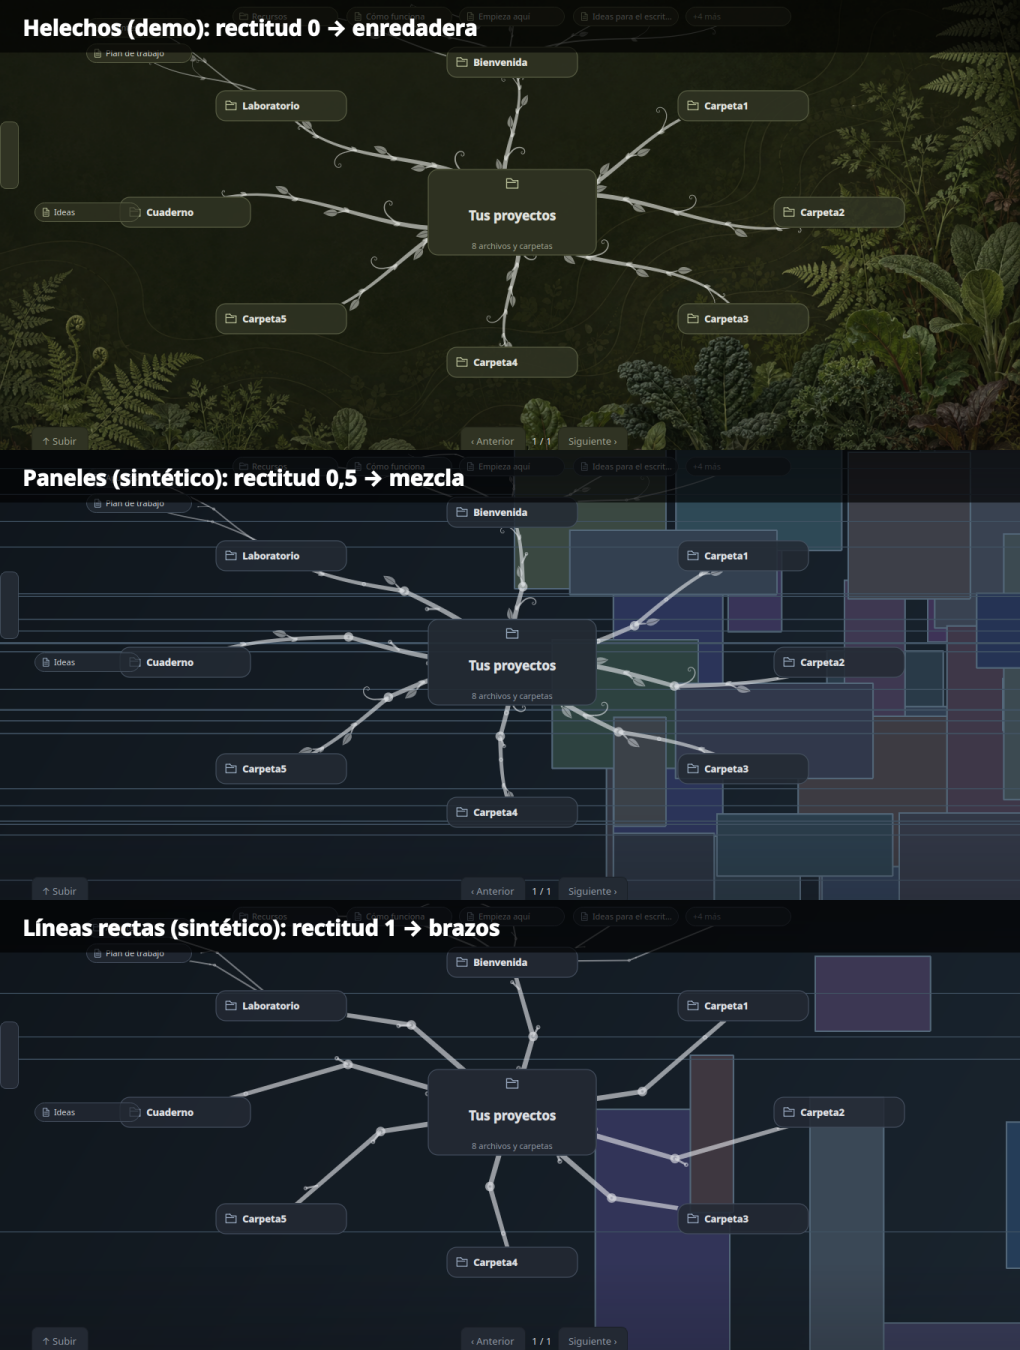
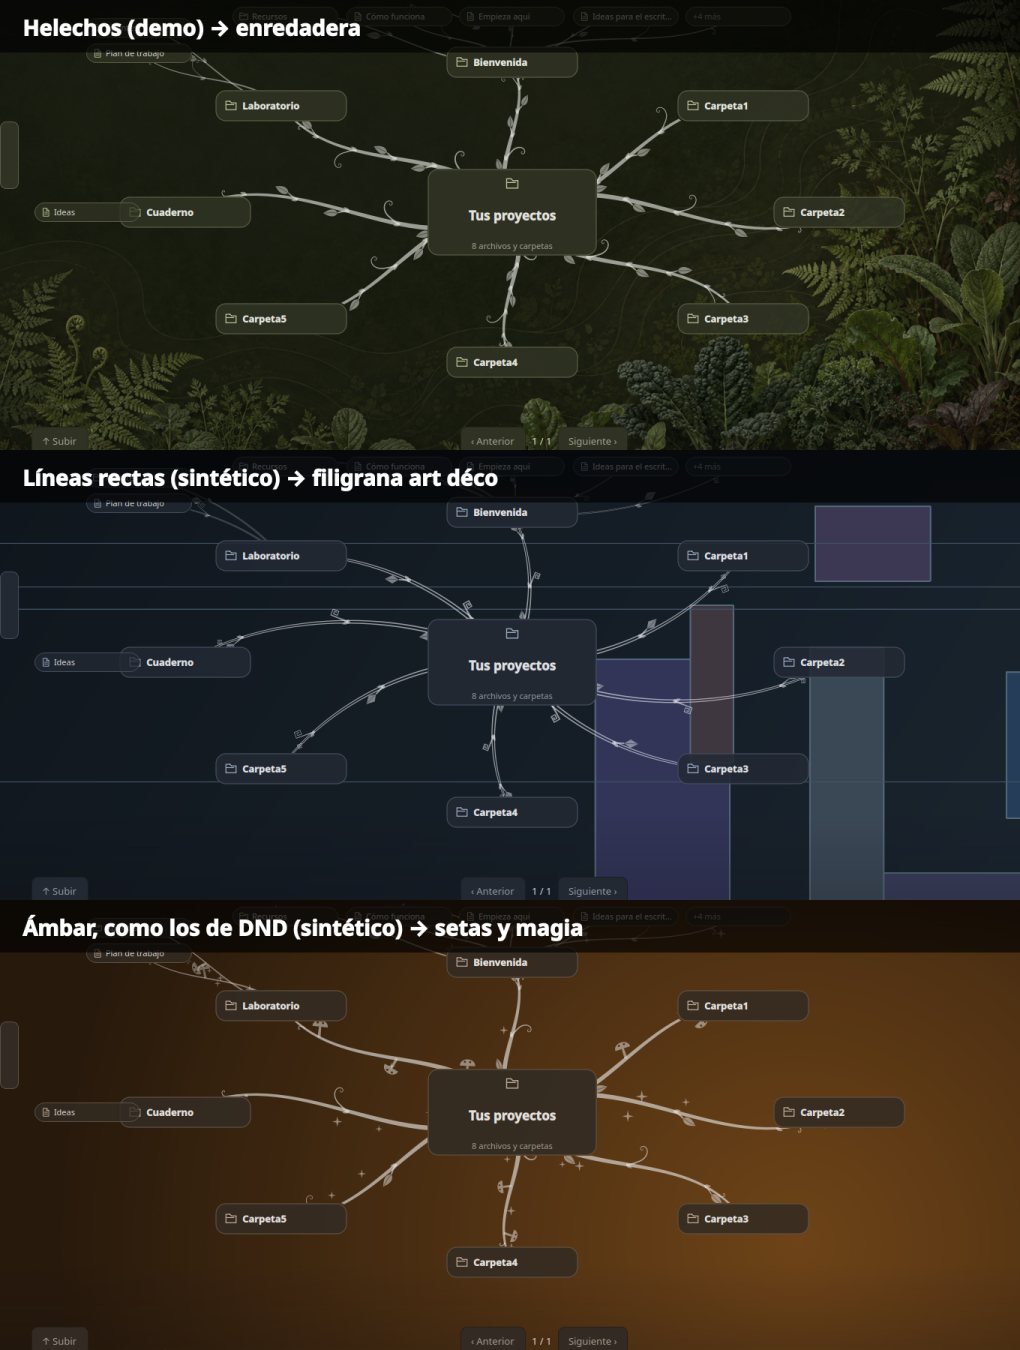
Ramas: técnico pasa a filigrana art déco; magia por tono ámbar (fondos de DND) con setas y destellos

diff --git a/desktop/prosperus/branches.py b/desktop/prosperus/branches.py
@@ -63,13 +63,6 @@ def _heading(points, i):
     return math.atan2(b.y() - a.y(), b.x() - a.x())
 
 
-def ring(painter, centre, radius, color, hole):
-    """Articulación o tornillo: disco con agujero (o ranura) en el color de fondo."""
-    path = QPainterPath(); path.addEllipse(centre, radius, radius)
-    inner = QPainterPath(); inner.addEllipse(centre, radius * hole, radius * hole)
-    painter.setBrush(color); painter.drawPath(path.subtracted(inner))
-
-
 def sparkle(painter, centre, size, color):
     """Destello de cuatro puntas."""
     path = QPainterPath(centre + QPointF(0, -size))
@@ -93,39 +86,57 @@ def mushroom(painter, base, angle, size, color, spots):
     painter.drawPath(cap)
 
 
-def _arm_points(start, end, side, steps):
-    """Brazo articulado: dos tramos rectos con el codo apartado hacia un lado."""
-    elbow = (start + end) / 2 + side
-    half = steps // 2
-    return ([start + (elbow - start) * (i / half) for i in range(half)] +
-            [elbow + (end - elbow) * (i / (steps - half)) for i in range(steps - half + 1)]), elbow
+def square_spiral_points(base, angle, size, turn):
+    """Greca: espiral cuadrada que gira 90° en cada tramo, cada vez más corto."""
+    points, point, heading = [base], QPointF(base), angle
+    for factor in (1, .75, .75, .5, .5, .3, .3):
+        point = point + QPointF(math.cos(heading), math.sin(heading)) * size * factor * .5
+        points.append(point); heading += turn * math.pi / 2
+    return points
+
+
+def diamond_paths(base, angle, size):
+    """Rombo (hoja geométrica) y su nervio."""
+    direction = QPointF(math.cos(angle), math.sin(angle)); side = QPointF(-direction.y(), direction.x())
+    tip = base + direction * size
+    middle = base + direction * size * .45
+    diamond = QPainterPath(base)
+    for point in (middle + side * size * .3, tip, middle - side * size * .3):
+        diamond.lineTo(point)
+    diamond.closeSubpath()
+    vein = QPainterPath(base + direction * size * .12); vein.lineTo(tip - direction * size * .12)
+    return diamond, vein
+
+
+def dot(painter, centre, radius, color):
+    path = QPainterPath(); path.addEllipse(centre, radius, radius)
+    painter.setBrush(color); painter.drawPath(path)
 
 
 def branch(painter, start, end, start_width, end_width, color, seed=0, sprigs=3, curl=.18, traits=None):
     """Rama procedural en un solo color. traits (del fondo) mezcla enredadera orgánica y brazo
-    mecánico (straight), regula los brotes (detail) y añade setas y destellos (glow)."""
+    geométrico (straight, filigrana art déco), regula los brotes (detail) y añade setas y destellos (magic)."""
     traits = traits or {}
-    straight, detail, glow = traits.get('straight', 0), traits.get('detail', .4), traits.get('glow', 0)
+    straight, detail, glow = traits.get('straight', 0), traits.get('detail', .4), traits.get('magic', 0)
     rng = random.Random(traits.get('seed', 0) * 7919 + seed)
     direction = end - start
     length = math.hypot(direction.x(), direction.y()) or 1
     side = QPointF(-direction.y(), direction.x()) * (curl * (1 if seed % 2 else -1))
-    # Curva en S (orgánica) y brazo de dos tramos (mecánico), mezclados según la rectitud del fondo.
+    # Curva en S (orgánica) mezclada con un arco de compás (geométrico) según la rectitud.
     curve = cubic_points(start, start + direction * .33 + side, start + direction * .66 - side, end)
-    # Todos los codos giran hacia el mismo lado: brazos vecinos no se cruzan.
-    arm, elbow = _arm_points(start, end, QPointF(-direction.y(), direction.x()) * (curl * .8), len(curve) - 1)
-    points = [c * (1 - straight) + a * straight for c, a in zip(curve, arm)]
-    end_width = end_width + (start_width * .7 - end_width) * straight
+    bow = QPointF(-direction.y(), direction.x()) * (curl * .9)
+    arc = cubic_points(start, start + direction * .3 + bow, start + direction * .7 + bow, end)
+    points = [c * (1 - straight) + a * straight for c, a in zip(curve, arc)]
     painter.setPen(Qt.PenStyle.NoPen)
     painter.setBrush(color)
-    painter.drawPath(tapered(points, start_width, end_width))
+    band = tapered(points, start_width, end_width)
+    if straight > .5:
+        # Doble línea art déco: la banda queda hueca por dentro.
+        band = band.subtracted(tapered(points, start_width * .45, end_width * .3))
+    painter.drawPath(band)
     soft = QColor(color); soft.setAlpha(int(color.alpha() * .8))
     dark = QColor(0, 0, 0, 120)
     size = max(8.0, min(17.0, length * .07))
-    if straight > .5:
-        # Articulaciones en el hombro y el codo.
-        ring(painter, points[0] + direction * (12 / length), start_width * .9, color, .45)
-        ring(painter, points[len(points) // 2], start_width * .85, color, .45)
     count = max(1, round(sprigs * (.6 + .8 * detail)))
     for k in range(count):
         t = .22 + k * (.6 / max(1, count - 1)) if count > 1 else .55
@@ -138,13 +149,20 @@ def branch(painter, start, end, start_width, end_width, color, seed=0, sprigs=3,
             mushroom(painter, base, heading + turn * 1.2, size * 1.1, soft, True)
             continue
         if roll < straight:
-            # Pieza mecánica: tornillo sobre la rama o pistón corto que acaba en articulación.
-            if rng.random() < .5:
-                ring(painter, base, width * .6, soft, .35)
+            # Brote geométrico: tallo recto, punto de compás y greca o rombo con nervio.
+            stem_angle = heading + turn * .38
+            stem_end = base + QPointF(math.cos(stem_angle), math.sin(stem_angle)) * size * .8
+            painter.setBrush(color); painter.drawPath(tapered([base, stem_end], width * .5, width * .35))
+            dot(painter, base, width * .55, color)
+            if (k + seed) % 2:
+                painter.drawPath(tapered(square_spiral_points(stem_end, stem_angle, size * 1.3, turn), width * .35, width * .3))
             else:
-                tip = base + QPointF(math.cos(heading + turn * .5), math.sin(heading + turn * .5)) * size
-                painter.setBrush(color); painter.drawPath(tapered([base, tip], width * .45, width * .45))
-                ring(painter, tip, width * .5, soft, .4)
+                diamond, vein = diamond_paths(stem_end, stem_angle, size * 1.1)
+                painter.setBrush(soft); painter.drawPath(diamond)
+                painter.setBrush(Qt.BrushStyle.NoBrush)
+                painter.setPen(QPen(dark, .8)); painter.drawPath(vein); painter.setPen(Qt.PenStyle.NoPen)
+            small, _ = diamond_paths(base, heading - turn * .42, size * .5)
+            painter.setBrush(soft); painter.drawPath(small)
             continue
         # Tallo corto, con poco ángulo, que acaba en zarcillo o en hoja.
         stem_angle = heading + turn * .38
@@ -166,11 +184,14 @@ def branch(painter, start, end, start_width, end_width, color, seed=0, sprigs=3,
         i = rng.randrange(len(points))
         offset = QPointF(rng.uniform(-1, 1), rng.uniform(-1, 1)) * size * 1.4
         sparkle(painter, points[i] + offset, size * rng.uniform(.25, .5), soft)
+    # Brote final junto al nodo: zarcillo o greca.
+    i = int(.9 * (len(points) - 1))
+    turn = -1 if seed % 2 else 1
+    painter.setBrush(color)
     if straight < .5:
-        # Brote final junto al nodo.
-        i = int(.9 * (len(points) - 1))
-        painter.setBrush(color)
-        painter.drawPath(tapered(spiral_points(points[i], _heading(points, i) + .4, size * .7, -1 if seed % 2 else 1), max(1.0, end_width * .6), .4))
+        painter.drawPath(tapered(spiral_points(points[i], _heading(points, i) + .4, size * .7, turn), max(1.0, end_width * .6), .4))
+    else:
+        painter.drawPath(tapered(square_spiral_points(points[i], _heading(points, i) + .4, size * .8, turn), max(.9, end_width * .4), .8))
 
 
 vine = branch

diff --git a/desktop/prosperus/appearance.py b/desktop/prosperus/appearance.py
@@ -303,7 +303,8 @@ class Wallpaper(QWidget):
 
 
 # Rasgos del fondo para las ramas procedurales (0..1): rectitud (objetos fabricados),
-# detalle (textura) y brillo (destellos). Se recalculan solo si cambia el archivo.
+# detalle (textura) y magia (tono ámbar de fantasía, como los fondos de DND: setas y destellos).
+# Se recalculan solo si cambia el archivo.
 @lru_cache(maxsize=32)
 def wallpaper_traits(path, modified):
     image = QImage(str(path))
@@ -311,8 +312,11 @@ def wallpaper_traits(path, modified):
         return None
     w, h = 160, 100
     image = image.scaled(w, h, Qt.IgnoreAspectRatio, Qt.SmoothTransformation)
-    grey = [[QColor(image.pixel(x, y)).lightness() for x in range(w)] for y in range(h)]
-    edges, magnitude_sum, sparks = {}, 0.0, 0
+    colours = [[QColor(image.pixel(x, y)) for x in range(w)] for y in range(h)]
+    grey = [[c.lightness() for c in row] for row in colours]
+    # Ámbar: tono 15-50°, saturado y no negro (madera, velas, pergamino, paisajes de fantasía).
+    amber = sum(15 <= c.hue() <= 50 and c.saturation() > 70 and c.value() > 40 for row in colours for c in row)
+    edges, magnitude_sum = {}, 0.0
     for y in range(1, h - 1):
         for x in range(1, w - 1):
             gx = (grey[y-1][x+1] + 2 * grey[y][x+1] + grey[y+1][x+1]) - (grey[y-1][x-1] + 2 * grey[y][x-1] + grey[y+1][x-1])
@@ -320,9 +324,6 @@ def wallpaper_traits(path, modified):
             magnitude = math.hypot(gx, gy); magnitude_sum += magnitude
             if magnitude > 140:
                 edges[(x, y)] = math.atan2(gy, gx)
-            around = (grey[y-1][x] + grey[y+1][x] + grey[y][x-1] + grey[y][x+1]) / 4
-            if grey[y][x] > 120 and grey[y][x] - around > 25:
-                sparks += 1
     # Borde recto: 5 px antes y después a lo largo del borde siguen con la misma orientación.
     straight = 0
     for (x, y), angle in edges.items():
@@ -338,5 +339,5 @@ def wallpaper_traits(path, modified):
     inner = (w - 2) * (h - 2)
     return {'straight': clamp((straight / len(edges) if edges else 0) / .22),
             'detail': clamp((magnitude_sum / inner - 12) / 24),
-            'glow': clamp(sparks / inner * 40),
+            'magic': clamp((amber / (w * h) - .15) / .25),
             'seed': int(hashlib.sha256(str(path).encode()).hexdigest()[:6], 16)}

diff --git a/tests/test_model.py b/tests/test_model.py
@@ -251,6 +251,10 @@ class LinkLayoutTests(unittest.TestCase):
             technical, organic = wallpaper_traits(path, 0), wallpaper_traits(flat, 0)
             self.assertGreater(technical['straight'], .5)
             self.assertEqual(organic['straight'], 0)
+            self.assertEqual(organic['magic'], 0)
+            amber = QImage(160, 100, QImage.Format.Format_RGB32); amber.fill(QColor('#a0601c'))
+            warm = Path(folder) / 'amber.png'; amber.save(str(warm))
+            self.assertGreater(wallpaper_traits(warm, 0)['magic'], .9)
             canvas = QImage(300, 200, QImage.Format.Format_ARGB32); canvas.fill(0)
             painter = QPainter(canvas)
             for traits in (technical, organic, None):

diff --git a/docs/WORKLOG.md b/docs/WORKLOG.md
@@ -386,3 +386,4 @@ Cierre: paquete local out/prosperus-demo-v4.tar.gz preparado, 7.648.493 bytes, S
 - Ramas de árbol en el mapa (`branches.py`): los radios son troncos que se afinan desde la carpeta, las notas hijas salen como ramitas y cada rama lleva hojas alternas; los enlaces entre notas son ramas finas curvadas hacia fuera. Base para estilos de rama según el fondo (técnico, fantasía…).
 - Ramas en estilo enredadera monocroma (inspirada en la incrustación «árbol de la vida» de las guitarras): curva en S que se afina, brotes alternos que acaban en hoja con nervio o en zarcillo en espiral, hojita al otro lado y brote final junto al nodo. Un solo color (tono nácar del texto) variando la opacidad. Las ramas ya no se ven a través de las tarjetas.
 - Ramas procedurales: el estilo sale del fondo de la carpeta (`wallpaper_traits`), sin elegirlo a mano; las carpetas nuevas heredan fondo y ramas, y solo se recalcula si cambia el archivo del fondo. Rasgos: rectitud (bordes rectos y largos → de enredadera a brazo articulado con codos, articulaciones, tornillos y pistones), detalle (más o menos brotes) y brillo (setas y destellos). Los codos giran todos hacia el mismo lado para que los brazos vecinos no se crucen. Comparación en `docs/images/ramas-procedurales.png`. 118 pruebas correctas.
+- Estilo técnico cambiado a filigrana art déco (a petición): arco de compás en doble línea, grecas (espirales cuadradas), rombos con nervio y puntos de compás. «Magia» se mide ahora por el tono ámbar del fondo (los de DND dan 0,4-0,6; el resto ≤0,08) y añade setas y destellos.
